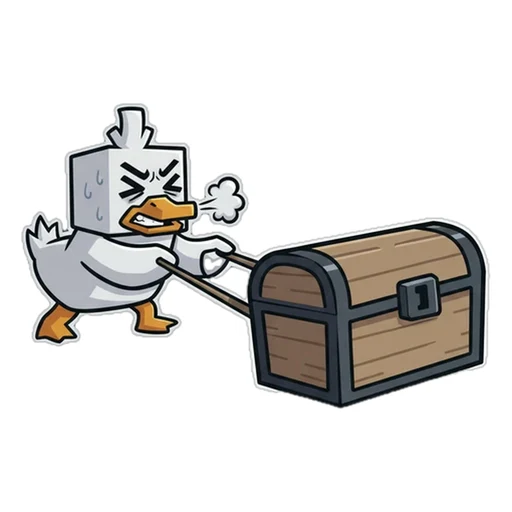
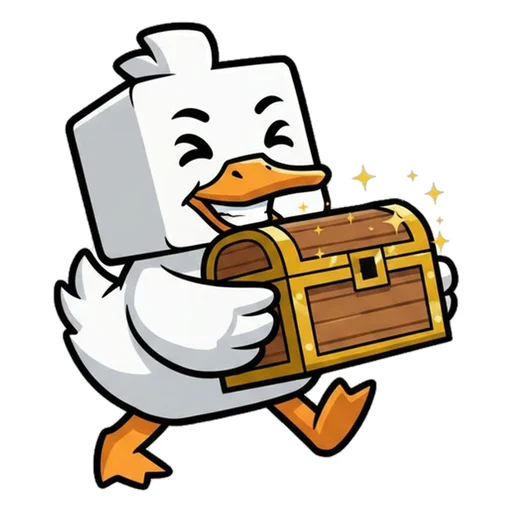
Га-Га: новый шок (shock-2) и новый сундук вместо старого, с белой обводкой

diff --git a/lib/gagaVoice.ts b/lib/gagaVoice.ts
@@ -27,7 +27,7 @@ export const GAGA_EMOTIONS: Record<GagaEvent, string[]> = {
     start: [G('wave'), G('wave-2'), G('teacher'), G('teacher-2')],
     correct: [G('happy-2'), G('happy-3'), G('proud-2')],
     wrong: [G('oops-3'), G('oops-4'), G('sad')],
-    rule: [G('shock'), G('teacher'), G('teacher-2')],
+    rule: [G('shock'), G('shock-2'), G('teacher'), G('teacher-2')],
     streak: [G('fire'), G('fire-2'), G('fire-3')],
     chest: [G('chest')],
     levelup: [G('proud-2'), G('happy-2')],

diff --git a/CLAUDE.md b/CLAUDE.md
@@ -14485,8 +14485,8 @@ Speaks Russian naturally. Feels like a favourite teacher or a good uncle: calm, 
 «ошибка» вместе с картинкой Га-Га; не на каждый ответ (в уроке и так много звуков). Нужна кнопка «Голос Га-Га вкл/выкл»
 в аккаунте (ученики занимаются без звука — в транспорте, ночью).
 Стикеры эмоций Га-Га (2026-10-23, 12 новых): все в `public/gaga/gaga-<эмоция>[-N].webp`, 512×512, прозрачный фон.
-Радость — happy-2, happy-3; Ой (ошибка) — oops-3, oops-4; Печаль — sad (добавлена 24.10); 24.10 удалены happy, oops, oops-2, pizza-2, proud, shock-2, всем без обводки добавлена белая обводка-стикер (размытие маски + порог, без острых углов); Шок (ЗАПОМНИ) — shock; Огонь (серия/КОМБО) —
-fire, fire-2, fire-3; Сундук — chest; Сон — sleep; Злость (босс) — angry; Думает — think; Гордость/победа — proud-2;
+Радость — happy-2, happy-3; Ой (ошибка) — oops-3, oops-4; Печаль — sad (добавлена 24.10); 24.10 удалены happy, oops, oops-2, pizza-2, proud, shock-2, всем без обводки добавлена белая обводка-стикер (размытие маски + порог, без острых углов); Шок (ЗАПОМНИ) — shock, shock-2; Огонь (серия/КОМБО) —
+fire, fire-2, fire-3; Сундук — chest (24.10 заменён на «несёт сундук»); Сон — sleep; Злость (босс) — angry; Думает — think; Гордость/победа — proud-2;
 Зовёт — wave, wave-2; Пицца — pizza, pizza-3; Учёный — teacher, teacher-2; монстр — monster-ege.
 В коде пока используется только gaga-oops (кнопка «Непонятно»). Как вырезать новые: маска Apple Vision
 (`VNGenerateForegroundInstanceMaskRequest`, Swift) ОБЪЕДИНЁННАЯ с заливкой белого фона от углов (Vision один теряет мелкие
